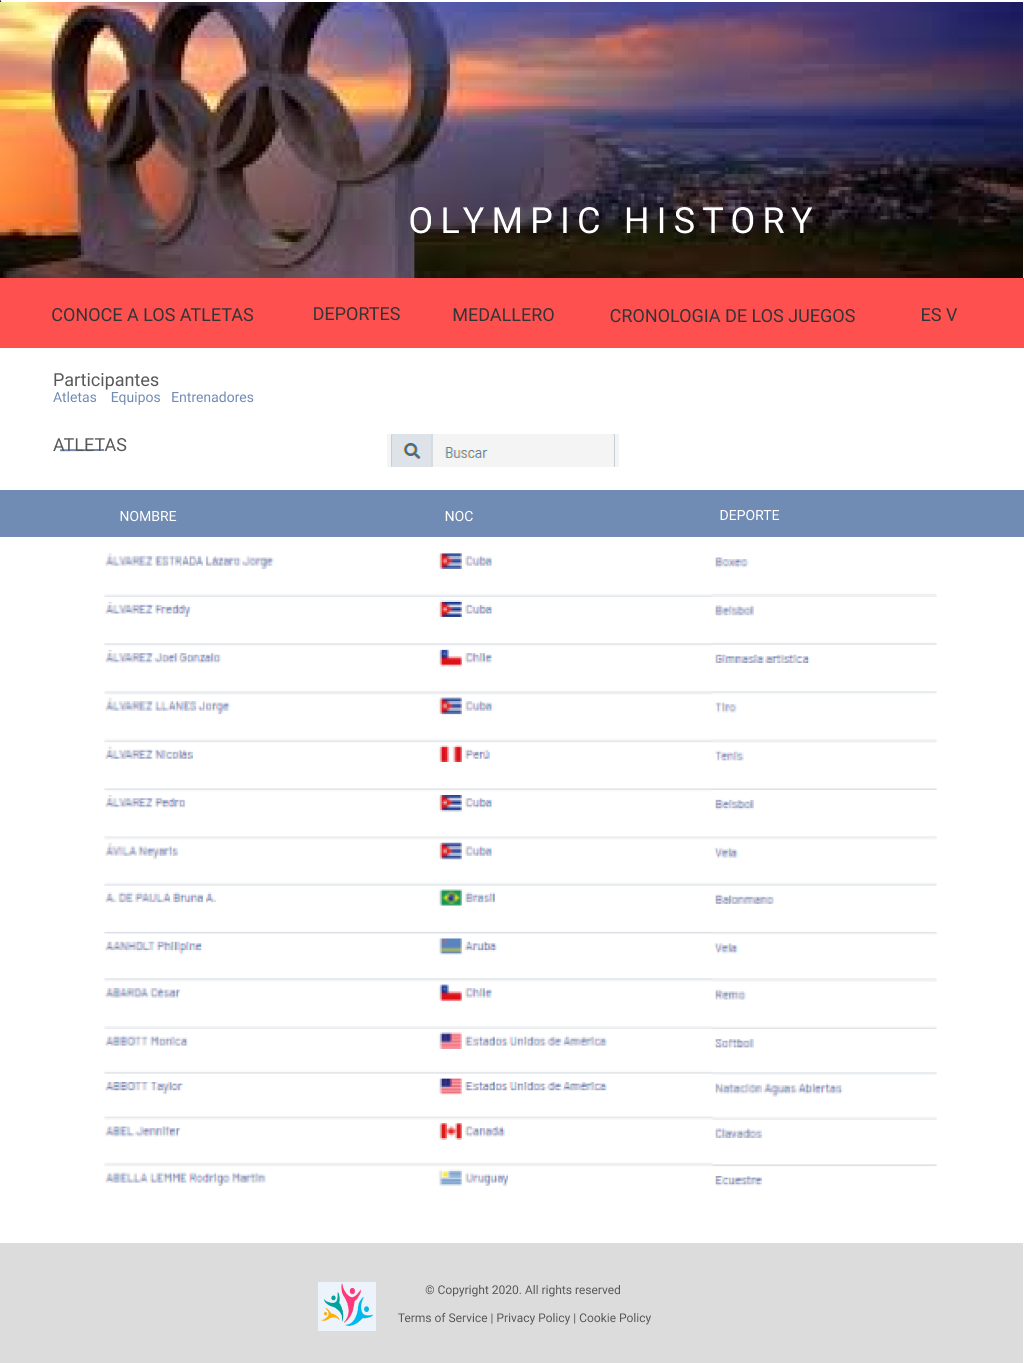
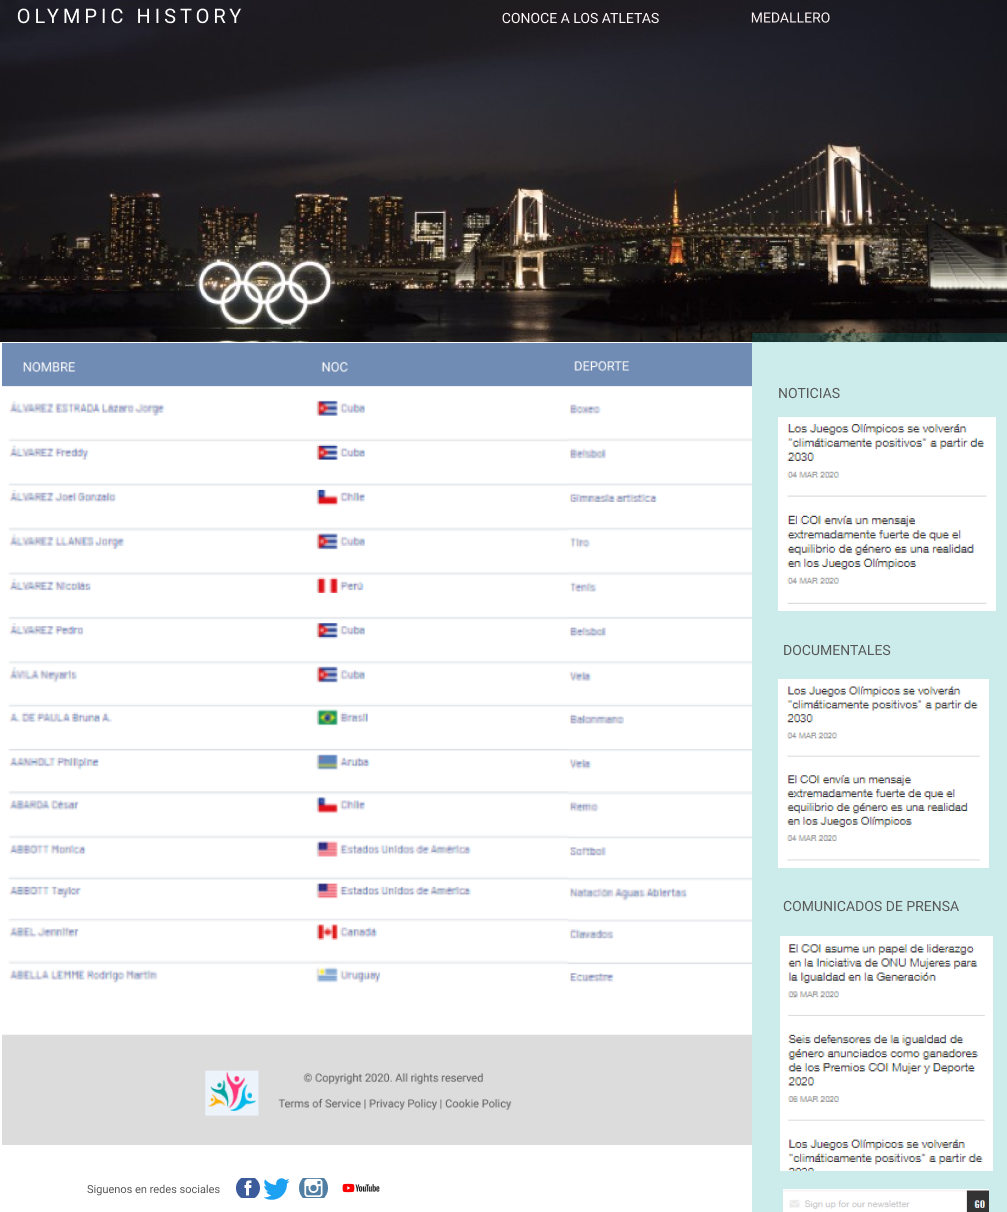
readme

diff --git a/README.md b/README.md
@@ -84,11 +84,20 @@ OLYMPIC HISTORY- Contiene un apartado denominado "Medallero", a traves del cual,
 
  ### Prototipo de Baja Fidelidad
 
+  A continuacion los prototipos de baja realizados luego de algunas iteraciones y testeos de usabilidad.
+
    ![Pagina](readme1.jpg)
+   ![Pagina](readme2.jpg)
+   ![Pagina](readme3.jpg)
+   ![Pagina](readme4.jpg)
+   ![Pagina](readme5.jpg)
 
   ### Prototipo de Alta Fidelidad
 
-   ![Pagina](readme2.jpg)
+  A continuacion los prototipos de alta fidelidad realizados con la herramienta **Figma** donde se aplicaron los principios de diseño visual.
+
+   ![Pagina](readme6_alta.jpg)
+   ![Pagina](readme7_alta.jpg)
 
 ## 5. Implementacion de la interfaz de Usuario
 
@@ -146,59 +155,27 @@ y de equipo.
 - [x] Utilizar identificadores descriptivos (Nomenclatura | Semántica).
 - [x] Utilizar linter para seguir buenas prácticas (ESLINT).
 
-## 4. Consideraciones generales
+## 7. Checklist
 
-* Este proyecto se debe resolver en duplas.
-* El proyecto será entregado subiendo tu código a GitHub (commit/push) y la
-  interfaz será desplegada usando [GitHub Pages](https://pages.github.com/).
-* Tiempo para completarlo: Toma como referencia 4 semanas.
-
-## 5. Criterios de aceptación mínimos del proyecto
-
-Los criterios para considerar que has completado este proyecto son:
-
-### Definición del producto
-
-Documenta brevemente tu trabajo en el archivo `README.md` de tu repositorio,
-contándonos cómo fue tu proceso de diseño y cómo crees que el producto resuelve
-el problema (o problemas) que tiene tu usuario.
-
-### Historias de usuario
-
-Una vez que entiendas las necesidades de tus usuarios, escribe las [Historias
-de Usuario](https://es.wikipedia.org/wiki/Historias_de_usuario) que representen
-todo lo que el usuario necesita hacer/ver. Las **Historias de Usuario** deben
-ser el resultado de tu proceso de investigación o _research_ de tus usuarios.
-
-Asegúrate de incluir la definición de terminado (_definition of done_) y los
-Criterios de Aceptación para cada una.
-
-En la medida de lo posible, termina una historia de usuario antes de pasar
-a la siguiente (Cumple con Definición de Terminado + Criterios de Aceptación).
-
-### Diseño de la Interfaz de Usuario
-
-#### Prototipo de baja fidelidad
-
-Durante tu trabajo deberás haber hecho e iterado bocetos (_sketches_) de tu
-solución usando papel y lápiz. Te recomendamos tomar fotos de todas las
-iteraciones que hagas, que las subas a tu repositorio y las menciones en tu
-`README.md`.
-
-#### Prototipo de alta fidelidad
-
-Lo siguiente es diseñar tu Interfaz de Usuario (UI por sus siglas en inglés -
-_User Interface_). Para eso debes aprender a utilizar alguna herramienta de
-diseño visual. Nosotros te recomendamos [Figma](https://www.figma.com/) que es
-una herramienta que funciona en el navegador y, además, puedes crear una cuenta
-gratis. Sin embargo, eres libre de utilizar otros editores gráficos como
-Illustrator, Photoshop, PowerPoint, Keynote, etc. Recuerda utilizar la
-[identidad gráfica](https://drive.google.com/open?id=1eeWFqrWpy-OYOH4EHDckFGunyrm9iNeE)
-correspondiente a cada set de datos que elijas.
-
-El diseño debe representar el _ideal_ de tu solución. Digamos que es lo que
-desearías implementar si tuvieras tiempo ilimitado para trabajar. Además, tu
-diseño debe seguir los fundamentos de _visual design_.
+* [x] Usa VanillaJS.
+* [x] No hace uso de `this`.
+* [x] Pasa linter (`npm run pretest`)
+* [x] Pasa tests (`npm test`)
+* [ ] Pruebas unitarias cubren un mínimo del 70% de statements, functions y
+  lines y branches.
+* [x] Incluye _Definición del producto_ clara e informativa en `README.md`.
+* [x] Incluye historias de usuario en `README.md`.
+* [x] Incluye _sketch_ de la solución (prototipo de baja fidelidad) en
+  `README.md`.
+* [x] Incluye _Diseño de la Interfaz de Usuario_ (prototipo de alta fidelidad)
+  en `README.md`.
+* [ ] Incluye link a Zeplin en `README.md`.
+* [x] Incluye el listado de problemas que detectaste a través de tests de
+  usabilidad en el `README.md`.
+* [x] UI: Muestra lista y/o tabla con datos y/o indicadores.
+* [x] UI: Permite ordenar data por uno o más campos (asc y desc).
+* [x] UI: Permite filtrar data en base a una condición.
+* [x] UI: Es _responsive_.
 
 #### Testeos de usabilidad
 
@@ -235,7 +212,7 @@ Tus _pruebas unitarias_ deben dar una cobertura del 70% de _statements_
 (_ramas_) del archivo `src/data.js` que contenga tus funciones y está detallado
 en la sección de [Consideraciones técnicas](#srcdatajs).
 
-## 6. Hacker edition
+## Hacker edition
 
 Las secciones llamadas _Hacker Edition_ son **opcionales**. Si **terminaste**
 con todo lo anterior y te queda tiempo, intenta completarlas. Así podrás
@@ -253,7 +230,7 @@ Features/características extra sugeridas:
   o [Google Charts](https://developers.google.com/chart/).
 * 100% Coverage
 
-## 7. Consideraciones técnicas
+## Consideraciones técnicas
 
 La lógica del proyecto debe estar implementada completamente en JavaScript
 (ES6), HTML y CSS. En este proyecto NO está permitido usar librerías o
@@ -375,7 +352,7 @@ asíncrona con [`fetch()`](https://developer.mozilla.org/es/docs/Web/API/Fetch_A
 Tendrás también que completar las pruebas unitarias de las funciones
 implementadas en el archivo `data.js`.
 
-## 8. Pistas, tips y lecturas complementarias
+## Pistas, tips y lecturas complementarias
 
 ### Primeros pasos
 
@@ -511,24 +488,4 @@ compañera:
 
 ***
 
-## 9. Checklist
 
-* [x] Usa VanillaJS.
-* [x] No hace uso de `this`.
-* [x] Pasa linter (`npm run pretest`)
-* [x] Pasa tests (`npm test`)
-* [ ] Pruebas unitarias cubren un mínimo del 70% de statements, functions y
-  lines y branches.
-* [x] Incluye _Definición del producto_ clara e informativa en `README.md`.
-* [x] Incluye historias de usuario en `README.md`.
-* [x] Incluye _sketch_ de la solución (prototipo de baja fidelidad) en
-  `README.md`.
-* [x] Incluye _Diseño de la Interfaz de Usuario_ (prototipo de alta fidelidad)
-  en `README.md`.
-* [ ] Incluye link a Zeplin en `README.md`.
-* [x] Incluye el listado de problemas que detectaste a través de tests de
-  usabilidad en el `README.md`.
-* [x] UI: Muestra lista y/o tabla con datos y/o indicadores.
-* [x] UI: Permite ordenar data por uno o más campos (asc y desc).
-* [x] UI: Permite filtrar data en base a una condición.
-* [x] UI: Es _responsive_.
